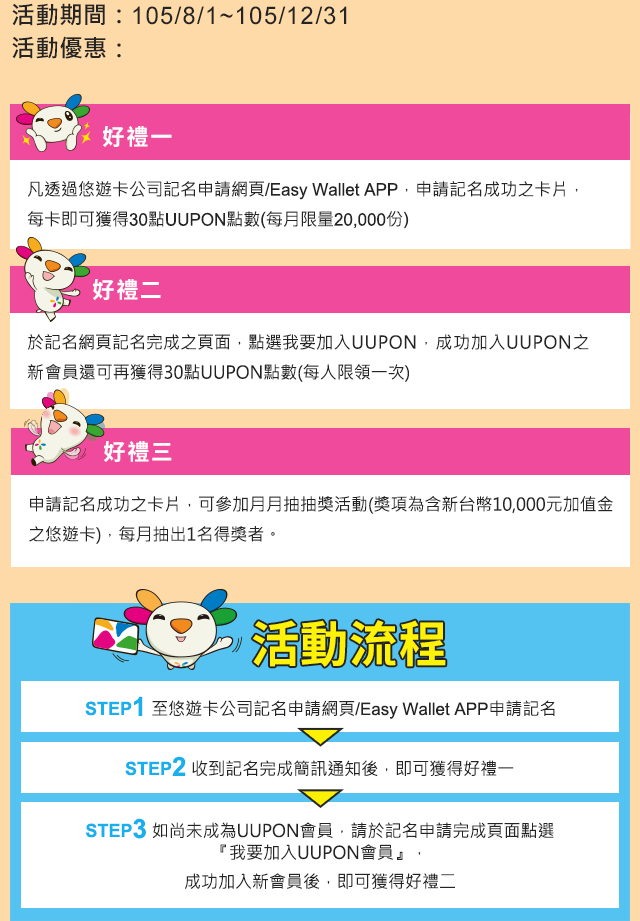
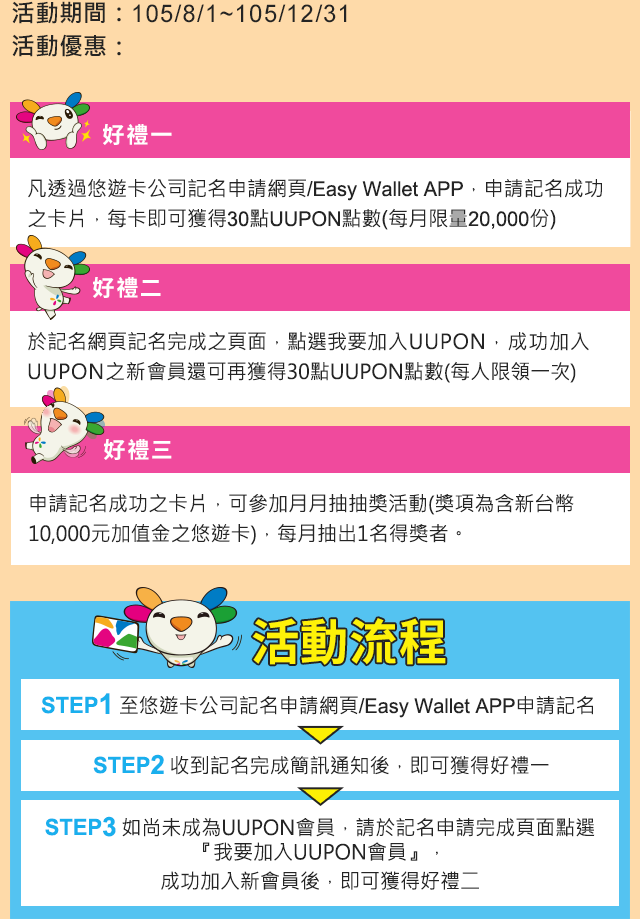
change font-size

diff --git a/demo/EasyCard/js/main.js b/demo/EasyCard/js/main.js
@@ -22,10 +22,11 @@ main = function (){
 			var iOS = /iPad|iPhone|iPod/.test(navigator.platform);
 
 	    if(iOS){
-	    	alert('iOS 24px');
+	    	// alert('iOS');
 
 	      $('.rule-notice').find('p').css({
-	        'font-size': '24px'
+	        'font-size': '24px',
+	        'line-height': '28px';
 	      });
 	    }
 
